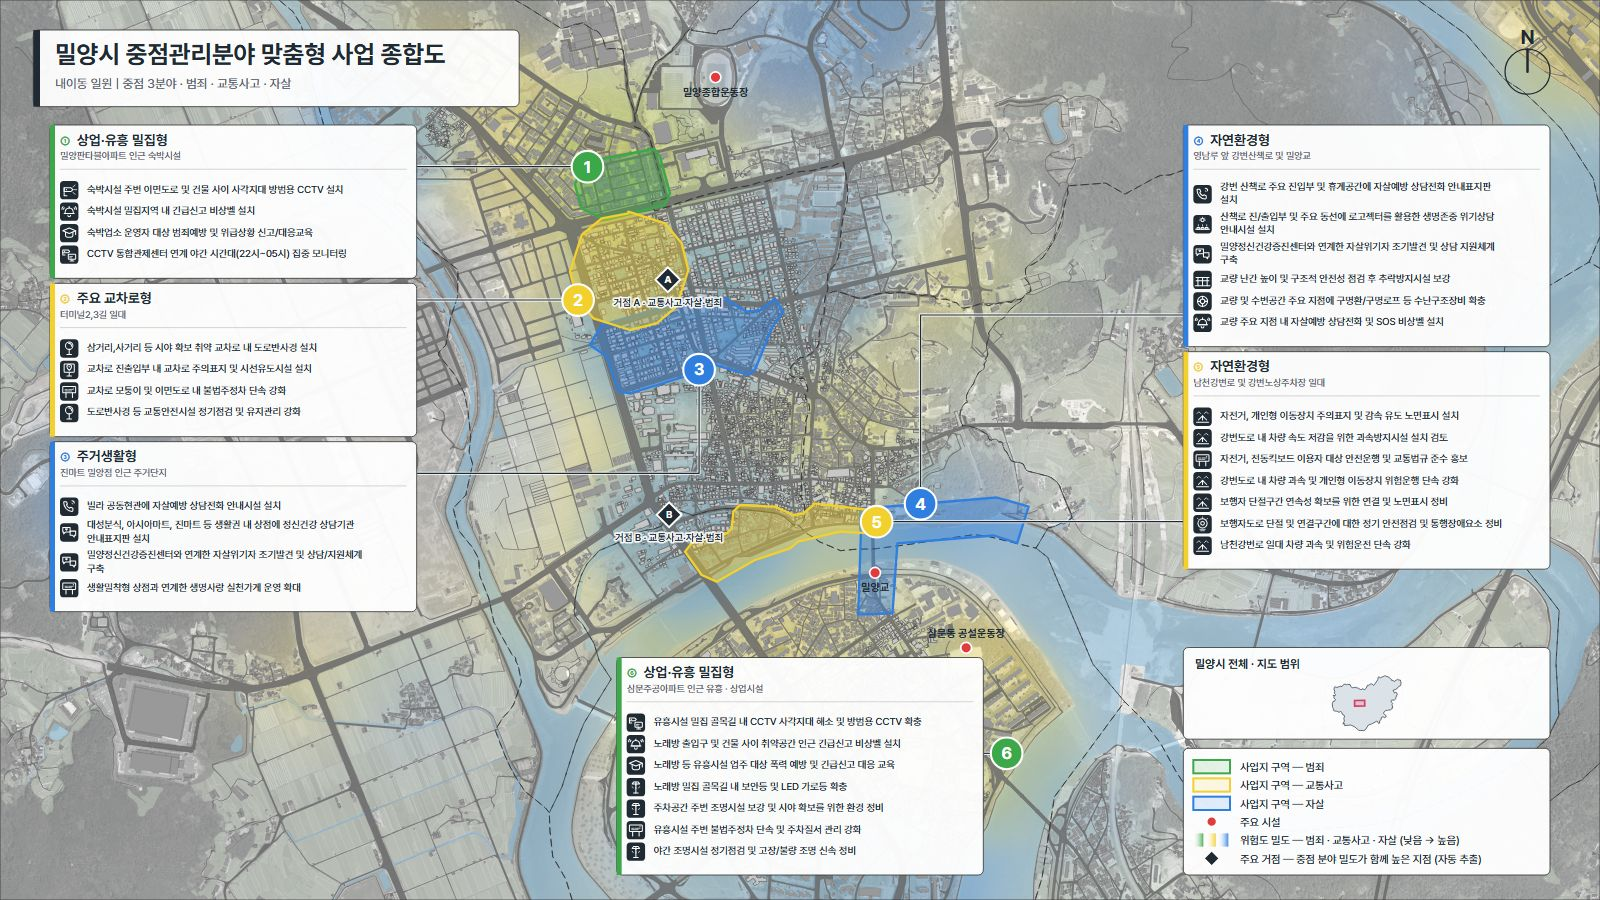
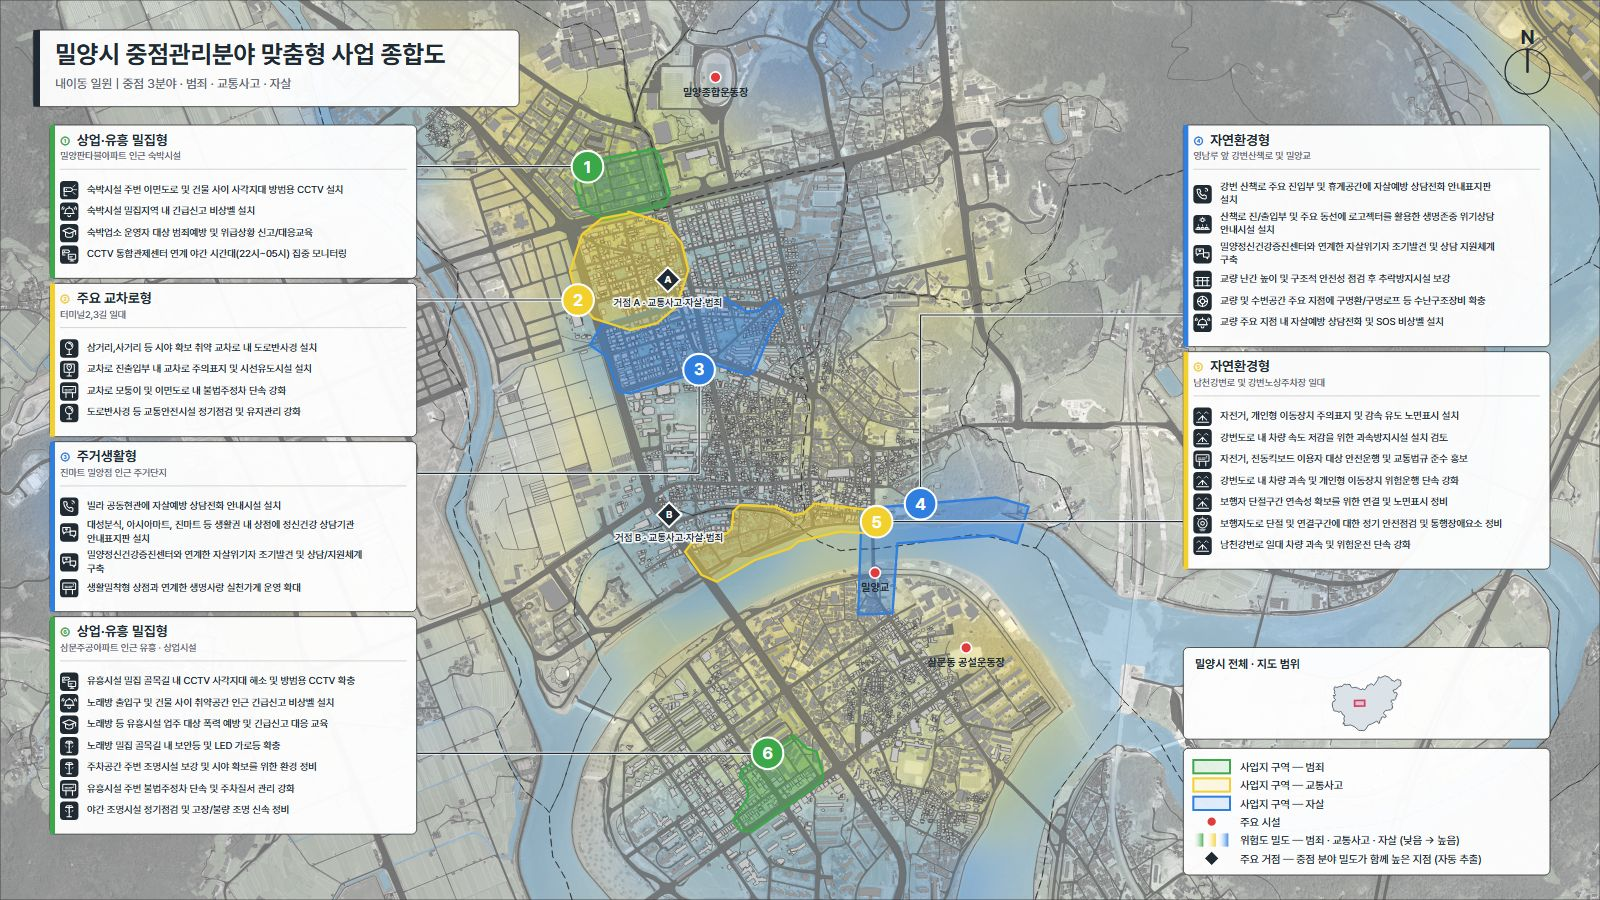
종합도 생성기 — 넘친 설명 상자를 반대쪽 열 빈자리로(없으면 바닥 띠에서 구역을 덜 덮는 자리) · 밀양 ⑥ 구역이 상자에 덮여 잘리던 것 해결

Changed region(s): [[0.375, 0.6844, 0.6562, 0.9956], [0.0312, 0.6844, 0.2812, 0.9333]]

diff --git a/notes/09_종합도-히트맵.md b/notes/09_종합도-히트맵.md
@@ -308,4 +308,4 @@ node run-pptx-region.mjs <지역> --pptx=<폴더> --png=<최종 PNG> --sdm=<SHP 
 - **2026-11-09 화재 색 남색 → 갈색 `#8C5A2E`** (11/4 정호경 요청 — 분야 색을 한 벌로). `risk.mjs AURI_COLORS` · `build-heatmap.mjs COLOR` 를 바꾸고 히트맵은 다시 만듦(185장, 중점관리분야 확정본 기준 · 안 쓰는 16장 지움). **종합도 SVG·JPG 39곳은 아직 남색** — 다시 그리면(생성기는 `_종합도.svg` 만 덮어씀, 담당자 수정본 `_종합도_최종.svg` 는 그대로라 그쪽은 손으로) export-jpg · overlay 도.
   → **같은 날 12곳 다시 그림**(강원대 분야에 화재가 있는 곳만: 미추홀·관악·목포·공주·나주·정읍·울산 중구·대전 중구·부산 동구·장흥·청송·태백) — `build-overview-map → export-jpg → svg-to-overlay`, 정합·틀은 그대로. 담당자 수정본(`_종합도_최종.svg`)은 금천뿐이라 겹치지 않음. 나머지 27곳은 화재가 없어 그대로. 오버레이 JSON 에는 색이 없고 화면(`index.html OVERVIEW_COLORS`)이 칠함.
 - **2026-11-09 남원·밀양 종합도** — 연속수치지형도 SHP(8레이어 × 2) → `data/raw/SDM_5K/52190_namwon · 48270_miryang/`(zip 원본은 `SDM_5K/261109/`). 축척 막대: 두 곳 모두 250m = 160px(**mpp 1.5625** — 다른 곳 0.6~0.9 보다 넓은 범위의 지도), `261030 남원시~밀양시/_pptx/mpp.json`. 순서는 `_pptx/batch-full.sh`(261022 판과 같음 + `check-pois --write`).
-  - 결과: **남원** — 시설 3곳(광한루원·쌍교동성당·용남시장)이 같은 이동(1.7km)을 가리켜 `check-pois --write` 로 보정, 축척 1.522. **밀양** — 막대값으로는 시설이 1.5km 어긋나고 시설 1곳만 맞아(지지 부족) 자동 보정이 안 됨. 두 운동장 건물(밀양종합운동장 본 경기장 30,911㎡ · 삼문동공설운동장)로 축척·회전을 함께 풀어(`regions/miryang.json draft.affine5179`, 이전 값 `affine5179_prev3`) **축척 1.776 · 회전 -0.3°**(북쪽 위 지도와 따로 맞아떨어짐) · 검증 밀양교가 하천 면에서 75m. → **AURI 밀양 지도의 축척 막대가 실제와 약 14% 다름**. ⚠ 밀양 ⑥(삼문주공아파트 인근 유흥·상업) 구역이 제 설명 상자에 가려 번호만 보임 — 상자 위치 손보기 필요(담당자 수정본 `_종합도_최종.svg` 로 고치면 생성기가 덮어쓰지 않음).
+  - 결과: **남원** — 시설 3곳(광한루원·쌍교동성당·용남시장)이 같은 이동(1.7km)을 가리켜 `check-pois --write` 로 보정, 축척 1.522. **밀양** — 막대값으로는 시설이 1.5km 어긋나고 시설 1곳만 맞아(지지 부족) 자동 보정이 안 됨. 두 운동장 건물(밀양종합운동장 본 경기장 30,911㎡ · 삼문동공설운동장)로 축척·회전을 함께 풀어(`regions/miryang.json draft.affine5179`, 이전 값 `affine5179_prev3`) **축척 1.776 · 회전 -0.3°**(북쪽 위 지도와 따로 맞아떨어짐) · 검증 밀양교가 하천 면에서 75m. → **AURI 밀양 지도의 축척 막대가 실제와 약 14% 다름**. 밀양 ⑥(삼문주공아파트 인근) 구역이 바닥 가운데로 내린 제 설명 상자에 덮여 잘려 나갔던 것 → **생성기 고침**(`build-overview-map.mjs` 상자가 열에서 넘치면 ① 반대쪽 열 아래에 자리가 있으면 그리로 ② 없을 때만 바닥 띠의 가운데·왼쪽·오른쪽 중 구역을 가장 덜 덮는 자리로). 밀양은 ⑥ 상자가 왼쪽 열 끝으로 가 구역이 온전히 보임. 이미 만든 다른 지자체 그림은 다시 그릴 때만 바뀜(10/22 사상구처럼 바닥으로 내린 곳).

diff --git a/notes/90_변경이력.md b/notes/90_변경이력.md
@@ -352,7 +352,7 @@ AURI 중점관리분야(안) 엑셀이 오면 `tools/config/focus-override.json`
 ## 2026-11-09 (저녁) 종합도 화재 색 · 남원·밀양 종합도 · 가중 HEA 빈칸 · 준공품·RFP 결정 (담당자)
 
 - **종합도 화재 갈색** — 강원대 분야에 화재가 든 12곳만 `build-overview-map → export-jpg → svg-to-overlay`(미추홀·관악·목포·공주·나주·정읍·울산 중구·대전 중구·부산 동구·장흥·청송·태백). 그림으로 확인(미추홀 ②⑥ 갈색).
-- **남원·밀양 종합도 41/41** — 지형도 SHP(담당자) → `data/raw/SDM_5K/52190_namwon · 48270_miryang`(zip 은 `SDM_5K/261109/`). 261030 `_pptx/batch-full.sh` · `mpp.json`(250m = 160px). 남원은 시설 3곳 지지로 보정. 밀양은 축척 막대가 실제와 약 14% 달라 두 운동장 건물로 축척 1.776 · 회전 -0.3° 로 다시 맞춤(밀양교가 하천 면에서 75m). ⚠ 밀양 ⑥ 구역이 설명 상자에 가려짐. 자세히 notes/09.
+- **남원·밀양 종합도 41/41** — 지형도 SHP(담당자) → `data/raw/SDM_5K/52190_namwon · 48270_miryang`(zip 은 `SDM_5K/261109/`). 261030 `_pptx/batch-full.sh` · `mpp.json`(250m = 160px). 남원은 시설 3곳 지지로 보정. 밀양은 축척 막대가 실제와 약 14% 달라 두 운동장 건물로 축척 1.776 · 회전 -0.3° 로 다시 맞춤(밀양교가 하천 면에서 75m). 밀양 ⑥ 구역이 설명 상자에 가려지던 것 → 생성기 상자 배치 고침. 자세히 notes/09.
 - **가중 HEA — 지표 없는 칸은 비움**(`safety-index.js baseScores`, 119 건수 백분위 대체 뺌) · `build-field-survey` 다시(41곳 일치) · `verify` 336건 오류 0. 2,046칸 중 빈칸 1,281 · 가중 HEA 가 빈 동 137/645. 자세히 notes/04.
 - **준공 성과품** — 초기 기본 기능 버전으로 롤백·리메이크해 제출(지금 main 개발은 계속, 롤백은 별도 브랜치) · **과업 요청서(RFP) 보류**(AURI 요청 없음) — CLAUDE.md 5번 표.
 - 강원대 2차 후보지역 zip → `data/raw/2차복합위험지구후보_1104/`(폴리곤만 풀어 둠, TIF 19.5GB 는 C 드라이브 여유가 없어 zip 안).
